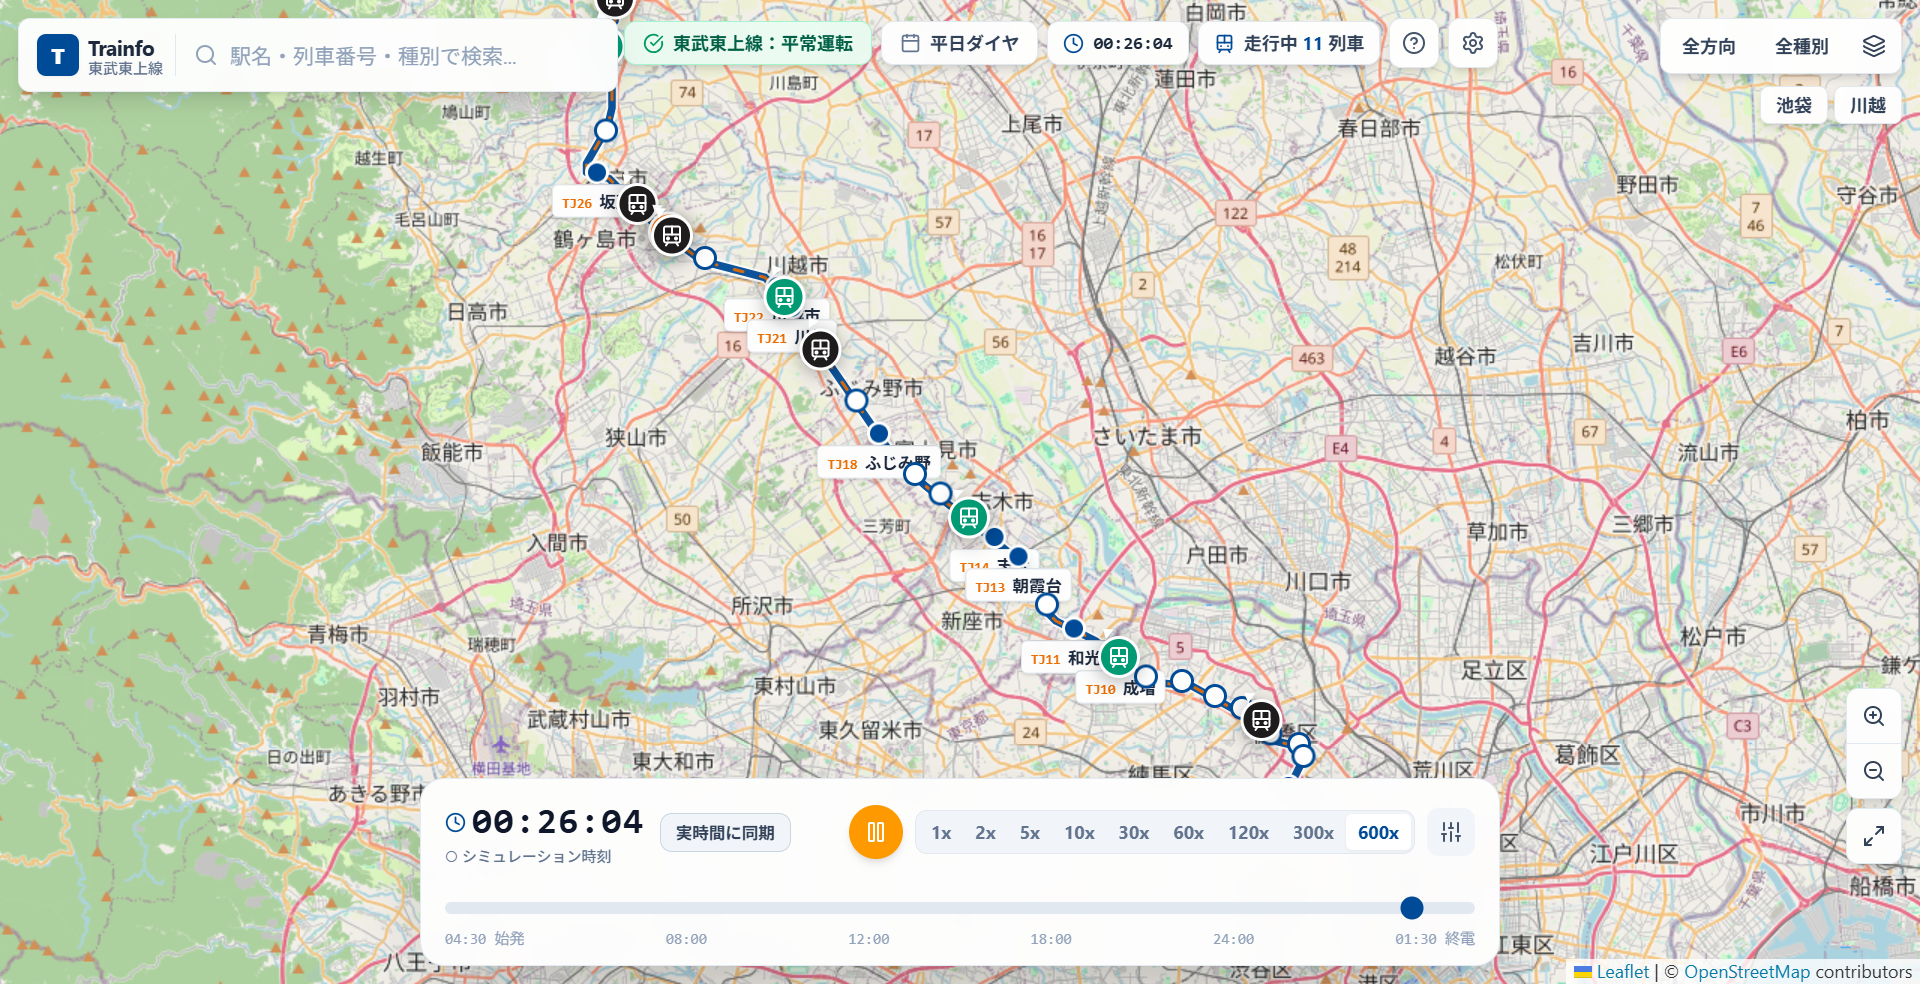
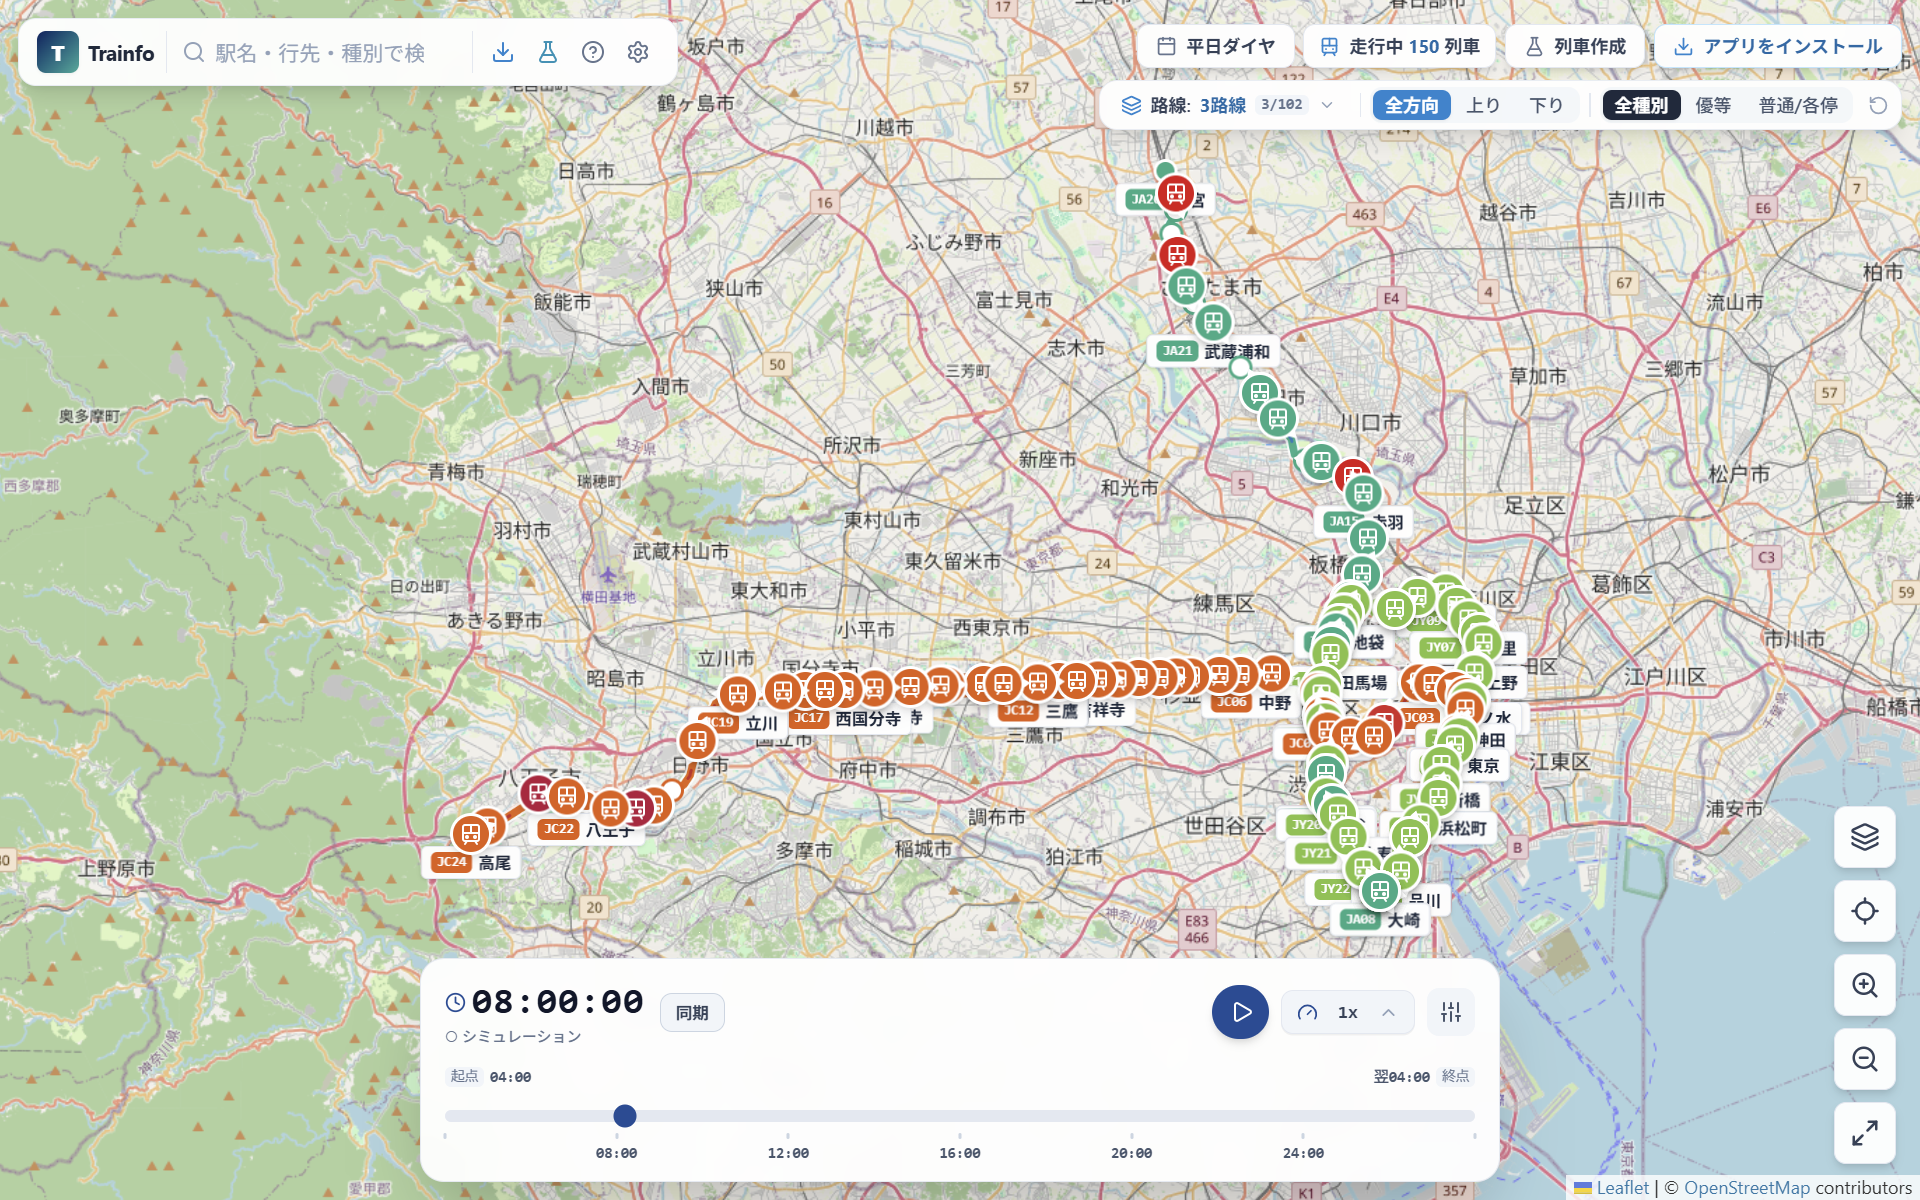
fix: README更新

diff --git a/README.md b/README.md
@@ -1,5 +1,11 @@
 # Trainfo — 鉄道リアルタイム運行シミュレーター
 
+<div align="center">
+
+<img src="docs/logo.svg" alt="Trainfo Logo" width="100" height="100" />
+
+首都圏・北関東・甲信越・東北・東海エリアにまたがる **21事業者・全102路線（ユニーク1,962駅 / 延べ2,023駅）** の鉄道ネットワークを対象に、実時刻表データ（平日・土休日ダイヤ）と実測路線ジオメトリに基づいて列車のリアルタイム現在位置・走行状態・直通運転・併結分割運転を高精度に可視化するインタラクティブ鉄道運行マップアプリケーション
+
 [![Deploy to GitHub Pages](https://github.com/GenbuHase/Trainfo/actions/workflows/deploy.yml/badge.svg)](https://github.com/GenbuHase/Trainfo/actions/workflows/deploy.yml)
 [![License: MIT](https://img.shields.io/badge/License-MIT-blue.svg)](https://opensource.org/licenses/MIT)
 ![React](https://img.shields.io/badge/React-19.2-61DAFB?logo=react&logoColor=white)
@@ -8,11 +14,7 @@
 ![Leaflet](https://img.shields.io/badge/Leaflet-1.9-199900?logo=leaflet&logoColor=white)
 ![TailwindCSS](https://img.shields.io/badge/Tailwind_CSS-3.4-06B6D4?logo=tailwindcss&logoColor=white)
 
-<div align="center">
-
-<img src="docs/logo.svg" alt="Trainfo Logo" width="100" height="100" />
-
-首都圏・北関東・甲信越・東北・東海エリアにまたがる **21事業者・全102路線（ユニーク1,962駅 / 延べ2,023駅）** の鉄道ネットワークを対象に、実時刻表データ（平日・土休日ダイヤ）と実測路線ジオメトリに基づいて列車のリアルタイム現在位置・走行状態・直通運転・併結分割運転を高精度に可視化するインタラクティブ鉄道運行マップアプリケーションです。
+![Trainfo 画面イメージ](docs/screenshot.png)
 
 </div>
 
